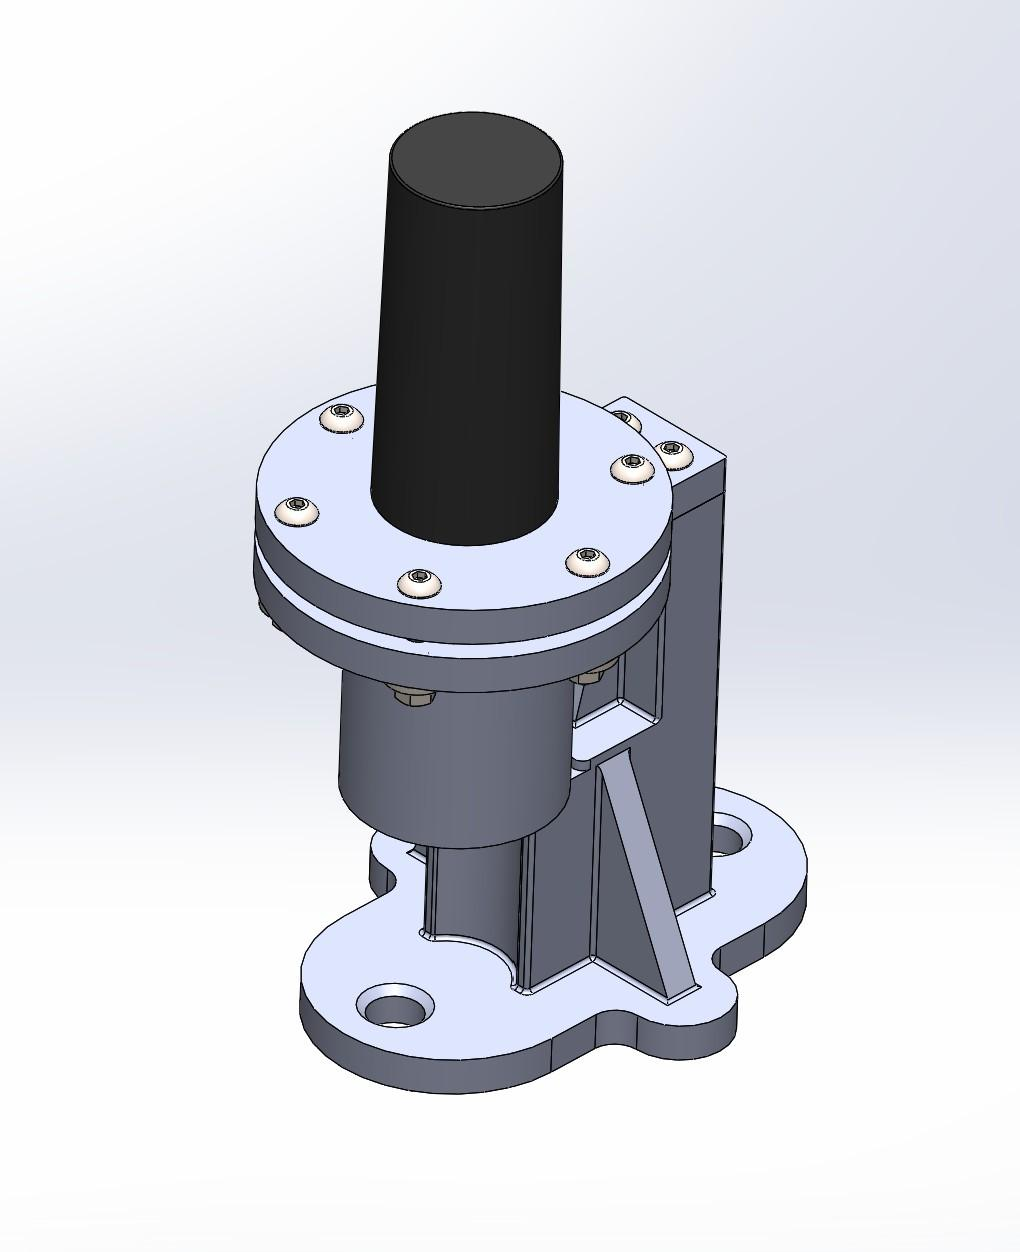
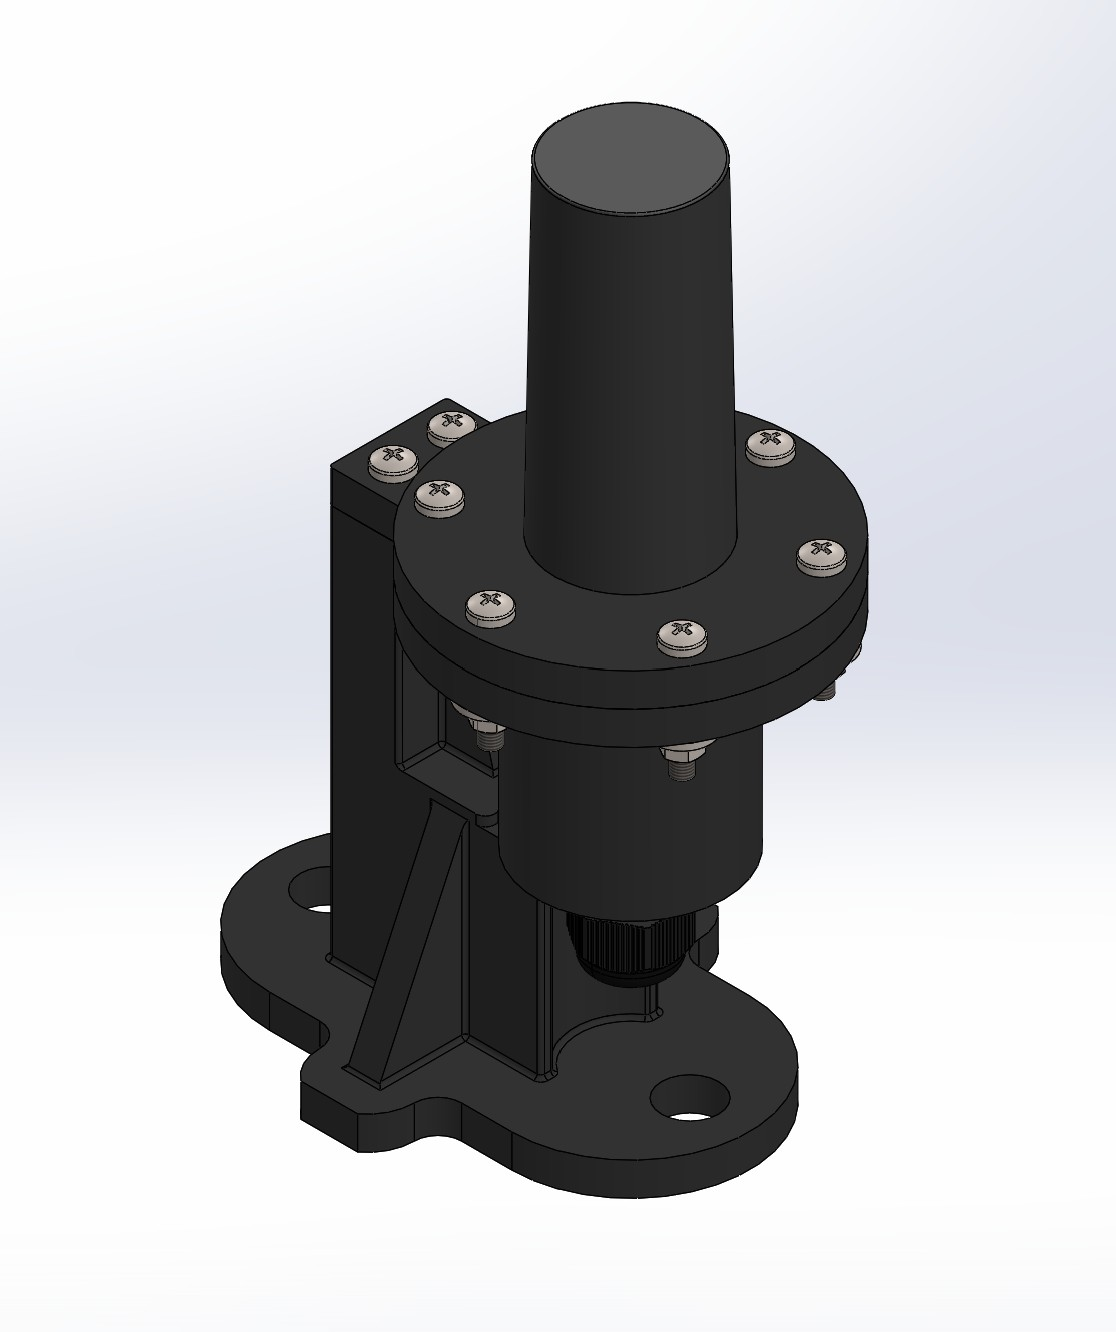
zdfgbaf

Changed region(s): [[0.1824, 0.0623, 0.7902, 0.9034]]

diff --git a/docs/hardware/tpu-pads/corner-pads-gallery.md b/docs/hardware/tpu-pads/corner-pads-gallery.md
@@ -17,25 +17,25 @@ Click any photo below to open it full-size. Use the arrow keys or on-screen arro
 
 <div class="photo-stack" markdown>
 
-![Corner Pad Render](../../images/accessories/corner_pad_render_01.jpg){: class="stack-item" style="--tx:0px; --htx:0px; --rot:-4deg; --z:5;" data-gallery="corner-pad-renders" }
+![Corner Pad Render](rfsoc-4x2-corner-pads/Images/corner_pad_render_01.jpg){: class="stack-item" style="--tx:0px; --htx:0px; --rot:-4deg; --z:5;" data-gallery="corner-pad-renders" }
 
 </div>
 
 *Only one render currently — pile will fan out properly once more are added.*
 
 <!-- Add more render images here as they're produced, e.g.:
-![Corner Pad Render 2](../../images/accessories/corner_pad_render_02.jpg){: class="stack-item" style="--tx:14px; --htx:60px; --rot:3deg; --z:4;" data-gallery="corner-pad-renders" }
+![Corner Pad Render 2](rfsoc-4x2-corner-pads/Images/corner_pad_render_02.jpg){: class="stack-item" style="--tx:14px; --htx:60px; --rot:3deg; --z:4;" data-gallery="corner-pad-renders" }
 -->
 
 ---
 
 ## Corner Numbering Diagram
 
-![Corner Numbering Diagram](../../images/accessories/corner_pad_numbering_diagram.jpg)
+![Corner Numbering Diagram](/hardware/tpu-pads/rfsoc-4x2-corner-pads/Corner_Pad_Number_Guide.JPG)
 
 *SolidWorks drawing labeling enclosure corners 1–4, showing which corner each pad is designed for.*
 
-<!-- TODO: replace with actual drawing filename once exported/uploaded to docs/images/accessories/ -->
+<!-- TODO: confirm final filename once uploaded to docs/.../rfsoc-4x2-corner-pads/Images/ -->
 
 ---
 
@@ -43,19 +43,19 @@ Click any photo below to open it full-size. Use the arrow keys or on-screen arro
 
 <div class="photo-stack" markdown>
 
-![Corner 1 Installed](../../images/accessories/corner_pad_1_installed.jpg){: class="stack-item" style="--tx:0px; --htx:0px; --rot:-4deg; --z:5;" data-gallery="installed-by-corner" }
+![Corner 1 Installed](rfsoc-4x2-corner-pads/Images/corner_pad_1_installed.jpg){: class="stack-item" style="--tx:0px; --htx:0px; --rot:-4deg; --z:5;" data-gallery="installed-by-corner" }
 
-![Corner 2 Installed](../../images/accessories/corner_pad_2_installed.jpg){: class="stack-item" style="--tx:14px; --htx:60px; --rot:3deg; --z:4;" data-gallery="installed-by-corner" }
+![Corner 2 Installed](rfsoc-4x2-corner-pads/Images/corner_pad_2_installed.jpg){: class="stack-item" style="--tx:14px; --htx:60px; --rot:3deg; --z:4;" data-gallery="installed-by-corner" }
 
-![Corner 3 Installed](../../images/accessories/corner_pad_3_installed.jpg){: class="stack-item" style="--tx:28px; --htx:120px; --rot:-3deg; --z:3;" data-gallery="installed-by-corner" }
+![Corner 3 Installed](rfsoc-4x2-corner-pads/Images/corner_pad_3_installed.jpg){: class="stack-item" style="--tx:28px; --htx:120px; --rot:-3deg; --z:3;" data-gallery="installed-by-corner" }
 
-![Corner 4 Installed](../../images/accessories/corner_pad_4_installed.jpg){: class="stack-item" style="--tx:42px; --htx:180px; --rot:4deg; --z:2;" data-gallery="installed-by-corner" }
+![Corner 4 Installed](rfsoc-4x2-corner-pads/Images/corner_pad_4_installed.jpg){: class="stack-item" style="--tx:42px; --htx:180px; --rot:4deg; --z:2;" data-gallery="installed-by-corner" }
 
 </div>
 
 *Each pad installed on its corresponding corner — cross-reference with the numbering diagram above to identify which pad goes where.*
 
-<!-- TODO: replace with actual photo filenames once uploaded to docs/images/accessories/ -->
+<!-- TODO: replace with actual photo filenames once uploaded -->
 
 ---
 
@@ -63,9 +63,9 @@ Click any photo below to open it full-size. Use the arrow keys or on-screen arro
 
 <div class="photo-stack" markdown>
 
-![Installed Corner Pad](../../images/accessories/corner_pads_installed.jpg){: class="stack-item" style="--tx:0px; --htx:0px; --rot:-4deg; --z:5;" data-gallery="installed" }
+![Installed Corner Pad](rfsoc-4x2-corner-pads/Images/corner_pads_installed.jpg){: class="stack-item" style="--tx:0px; --htx:0px; --rot:-4deg; --z:5;" data-gallery="installed" }
 
-![Corner Pad CAD](../../images/accessories/corner_pad_CAD.jpg){: class="stack-item" style="--tx:14px; --htx:60px; --rot:3deg; --z:4;" data-gallery="installed" }
+![Corner Pad CAD](rfsoc-4x2-corner-pads/Images/corner_pad_CAD.jpg){: class="stack-item" style="--tx:14px; --htx:60px; --rot:3deg; --z:4;" data-gallery="installed" }
 
 </div>
 
@@ -75,24 +75,27 @@ Click any photo below to open it full-size. Use the arrow keys or on-screen arro
 
 ## Assembly & Installation Videos
 
-### Section Assembly
+!!! note
+    Both tutorials below were recorded using Corner Pad 4 — since all four pads assemble and install identically, the procedure shown applies equally regardless of which pad you're working with.
+
+### Assembly Tutorial
 
 <video controls style="width:100%; max-width:640px; border-radius:8px;">
-  <source src="../../media/corner-pads/RIFTS_CornerPad_Section_Assembly.mp4" type="video/mp4">
+  <source src="/hardware/tpu-pads/rfsoc-4x2-corner-pads/RIFTS_Corner_Pad_4_Assembly_Tutorial.mp4" type="video/mp4">
   Your browser does not support the video tag.
 </video>
 
-*SolidWorks walkthrough showing how the four TPU sections and rigid inserts assemble into one complete corner pad.*
+*SolidWorks walkthrough showing how the four TPU sections and rigid inserts assemble into one complete corner pad (shown using Corner Pad 4).*
 
-<!-- TODO: replace with actual video filename once exported/uploaded to docs/media/corner-pads/ -->
+<!-- TODO: confirm final filename once uploaded -->
 
-### Mounting to Enclosure
+### Installation Tutorial
 
 <video controls style="width:100%; max-width:640px; border-radius:8px;">
-  <source src="../../media/corner-pads/RIFTS_CornerPad_Enclosure_Mounting.mp4" type="video/mp4">
+  <source src="/hardware/tpu-pads/rfsoc-4x2-corner-pads/Corner_Pad_Installation_Tutorial.mp4" type="video/mp4">
   Your browser does not support the video tag.
 </video>
 
-*SolidWorks walkthrough showing how a completed corner pad assembly mounts to the RFSoC 4x2 enclosure. Not applicable to the ZCU216 enclosure, which does not use this corner pad system.*
+*SolidWorks walkthrough showing how a completed corner pad assembly mounts to the RFSoC 4x2 enclosure (shown using Corner Pad 4). Not applicable to the ZCU216 enclosure, which does not use this corner pad system.*
 
-<!-- TODO: replace with actual video filename once exported/uploaded to docs/media/corner-pads/ -->
+<!-- TODO: confirm final filename once uploaded -->

diff --git a/docs/antenna/nav_2/antenna-gallery.md b/docs/antenna/nav_2/antenna-gallery.md
@@ -2,15 +2,6 @@
 
 Click any photo below to open it full-size. Use the arrow keys or on-screen arrows to page through the rest of that section without returning to this page.
 
-!!! note "Highly editable"
-    This page is a starting scaffold — add, remove, or re-group images freely as photos come in. Each image needs:
-
-    - `class="stack-item"` — required for the stacked layout
-    - `style="--tx:Npx; --htx:Mpx; --rot:Xdeg; --z:Y;"` — collapsed offset, hover (fanned-out) offset, rotation, and stacking order
-    - `data-gallery="group-name"` — images sharing a group name page through together in the click-through viewer
-
-    To add a 5th+ photo to a stack, just increase `--tx`/`--htx`/decrease `--z` following the same pattern as the ones below.
-
 ---
 
 ## CAD & Engineering

diff --git a/docs/antenna/nav_2/antenna-overview.md b/docs/antenna/nav_2/antenna-overview.md
@@ -144,7 +144,7 @@ For detailed printer parameters, orientation rationale, structural settings, and
 ### Installation Video
 
 <video controls style="width:100%; max-width:640px; border-radius:8px;">
-  <source src="../../antenna/Antenna_Mount_Installation_Tutorial.mp4" type="video/mp4">
+  <source src="/hardware/ventilation/media/Type_A/Antenna_Mount_Installation_Tutorial.mp4" type="video/mp4">
   Your browser does not support the video tag.
 </video>
 
